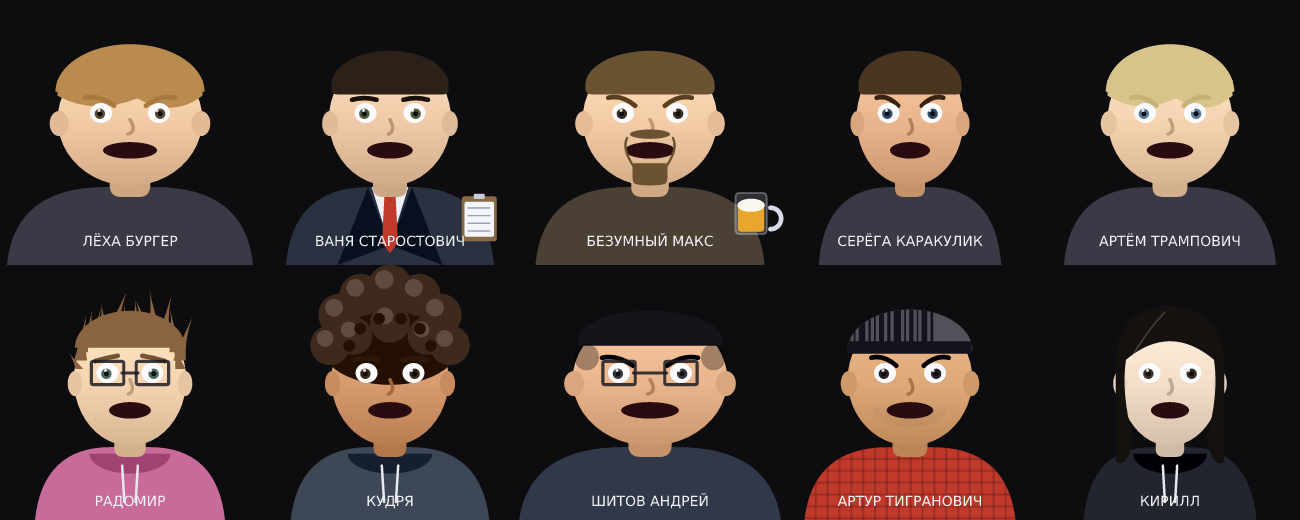
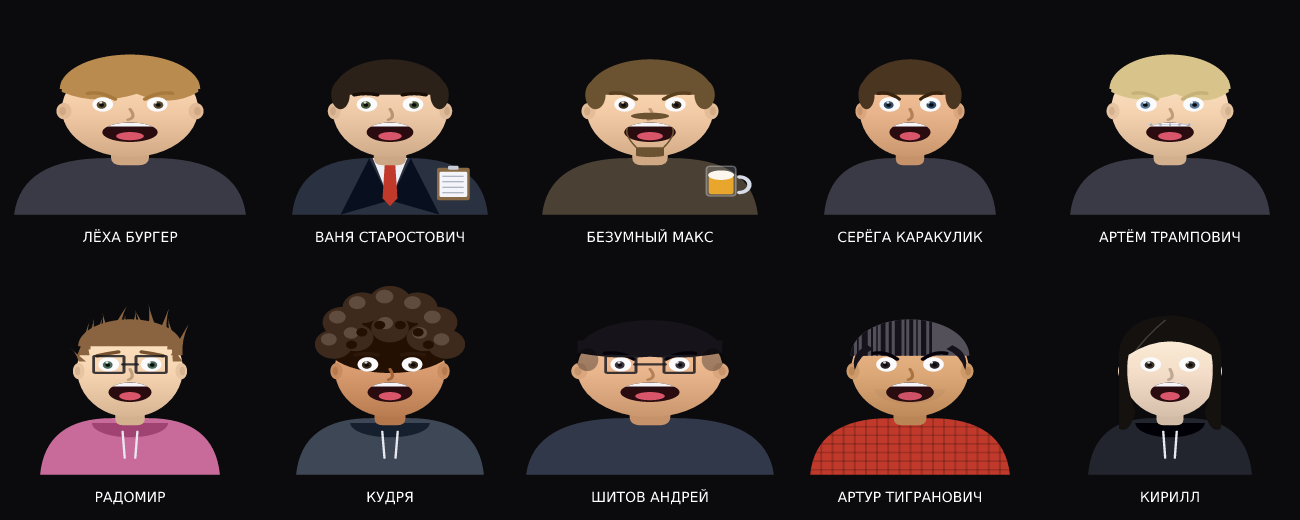
Персонажи: рот, уши, причёски и предметы
- Зубы рисовались шире рта (1.44×) и торчали за губы — теперь всё
  содержимое рта режется по его контуру
- Уши висели отдельными шариками на 0.98 ширины — прижаты к черепу,
  добавлена внутренняя раковина
- Причёски 1, 8, 9 читались как надетые шапки: сплошная полоса у лба
  заменена линией роста волос, купол посажен на череп
- Козья борода Макса перекрывала рот — клок опущен, перемычки тоньше
- Пиво и планшет висели в воздухе за плечом — подтянуты к корпусу

diff --git a/src/core/head.ts b/src/core/head.ts
@@ -79,12 +79,18 @@ export function drawHead(
     ctx.fill();
   }
 
-  // Уши
+  // Уши — прижаты к черепу, иначе выглядят как приклеенные шарики
   ctx.fillStyle = shade(look.skin, -14);
   [-1, 1].forEach((s) => {
     ctx.beginPath();
-    ctx.ellipse(s * w * 0.98, h * 0.06, w * 0.13, h * 0.19, 0, 0, Math.PI * 2);
+    ctx.ellipse(s * w * 0.97, h * 0.04, w * 0.11, h * 0.17, 0, 0, Math.PI * 2);
     ctx.fill();
+    // внутренняя раковина, чтобы ухо читалось
+    ctx.fillStyle = shade(look.skin, -32);
+    ctx.beginPath();
+    ctx.ellipse(s * w * 0.99, h * 0.04, w * 0.05, h * 0.09, 0, 0, Math.PI * 2);
+    ctx.fill();
+    ctx.fillStyle = shade(look.skin, -14);
   });
 
   // Щёки (надутые)
@@ -188,22 +194,29 @@ export function drawHead(
   ctx.ellipse(0, my + mh * 0.2, mw, mh, 0, 0, Math.PI * 2);
   ctx.fill();
   if (mouth > 0.25) {
+    // Всё содержимое рта режем по контуру самого рта, иначе зубы и язык
+    // вылезают за губы и получается «пасть» вместо лица.
+    ctx.save();
+    ctx.beginPath();
+    ctx.ellipse(0, my + mh * 0.2, mw, mh, 0, 0, Math.PI * 2);
+    ctx.clip();
+
     ctx.fillStyle = "#d9556a";
     ctx.beginPath();
     ctx.ellipse(0, my + mh * 0.6, mw * 0.5, mh * 0.42, 0, 0, Math.PI * 2);
     ctx.fill();
-    // зубы
-    const tx = -mw * 0.72, ty = my - mh * 0.86, tw = mw * 1.44, th = mh * 0.3;
+    // зубы — полоска по верхней губе, обрезается клипом
+    const tx = -mw, ty = my - mh * 0.8, tw = mw * 2, th = mh * 0.42;
     ctx.fillStyle = "#f6f6fa";
     ctx.beginPath();
-    ctx.roundRect(tx, ty, tw, th, th * 0.32);
+    ctx.rect(tx, ty, tw, th);
     ctx.fill();
 
     // Брекеты — металлические замочки с дугой
     if (look.braces) {
       ctx.save();
       ctx.beginPath();
-      ctx.roundRect(tx, ty, tw, th, th * 0.32);
+      ctx.rect(tx, ty, tw, th);
       ctx.clip();
       // дуга
       ctx.strokeStyle = "#c8ccd8";
@@ -227,6 +240,7 @@ export function drawHead(
       }
       ctx.restore();
     }
+    ctx.restore(); // снимаем клип рта
   }
 
   // Растительность на лице
@@ -340,7 +354,7 @@ function drawBody(
 
   // Кружка пива в руке
   if (look.prop === "beer") {
-    const bx = w * 1.5, by = h * 1.42;
+    const bx = w * 1.12, by = h * 1.5;
     const bw = r * 0.5, bh = r * 0.66;
     // ручка
     ctx.strokeStyle = "#d8dce8";
@@ -372,7 +386,7 @@ function drawBody(
 
   // Планшет старосты
   if (look.prop === "clipboard") {
-    const bx = w * 1.46, by = h * 1.5;
+    const bx = w * 1.1, by = h * 1.56;
     const bw = r * 0.56, bh = r * 0.72;
     ctx.fillStyle = "#8a6a44";
     ctx.beginPath();
@@ -450,18 +464,18 @@ function drawFacial(
     ctx.ellipse(0, 0, w, h, 0, 0, Math.PI * 2);
     ctx.clip();
     ctx.fillStyle = look.hair;
-    const gw = w * 0.26;
-    const gy = my + mh + r * 0.1;
+    const gw = w * 0.22;
+    const gy = my + mh + r * 0.16;
     ctx.beginPath();
-    ctx.roundRect(-gw, gy, gw * 2, h * 0.34, [w * 0.03, w * 0.03, w * 0.12, w * 0.12]);
+    ctx.roundRect(-gw, gy, gw * 2, h * 0.26, [w * 0.03, w * 0.03, w * 0.1, w * 0.1]);
     ctx.fill();
     // тонкие бакенбарды-перемычки от уголков рта к бородке
-    ctx.lineWidth = Math.max(1.4, r * 0.038);
+    ctx.lineWidth = Math.max(1.2, r * 0.028);
     ctx.strokeStyle = look.hair;
     [-1, 1].forEach((sg) => {
       ctx.beginPath();
-      ctx.moveTo(sg * gw * 0.95, gy + h * 0.04);
-      ctx.quadraticCurveTo(sg * w * 0.42, my, sg * w * 0.34, my - mh - r * 0.04);
+      ctx.moveTo(sg * gw * 0.92, gy + h * 0.02);
+      ctx.quadraticCurveTo(sg * w * 0.4, my + mh * 0.6, sg * w * 0.36, my - mh * 0.2);
       ctx.stroke();
     });
     ctx.restore();
@@ -480,12 +494,15 @@ function drawHair(ctx: CanvasRenderingContext2D, look: FriendLook, w: number, h:
       break;
 
     case 1: // короткие
+      // купол по форме черепа + чуть спущенные виски, без «плиты» сверху
       ctx.beginPath();
-      ctx.ellipse(0, -h * 0.52, w * 0.96, h * 0.52, 0, Math.PI, 0);
+      ctx.ellipse(0, -h * 0.3, w * 1.0, h * 0.74, 0, Math.PI, 0);
       ctx.fill();
-      ctx.beginPath();
-      ctx.roundRect(-w * 0.96, -h * 0.58, w * 1.92, h * 0.2, w * 0.1);
-      ctx.fill();
+      [-1, 1].forEach((sg) => {
+        ctx.beginPath();
+        ctx.ellipse(sg * w * 0.86, -h * 0.3, w * 0.16, h * 0.3, 0, 0, Math.PI * 2);
+        ctx.fill();
+      });
       break;
 
     case 2: // шапка волос
@@ -632,12 +649,12 @@ function drawHair(ctx: CanvasRenderingContext2D, look: FriendLook, w: number, h:
       const light = shade(look.hair, 62);
       ctx.fillStyle = light;
       ctx.beginPath();
-      ctx.ellipse(0, -h * 0.44, w * 1.0, h * 0.62, 0, Math.PI, 0);
+      ctx.ellipse(0, -h * 0.28, w * 1.01, h * 0.76, 0, Math.PI, 0);
       ctx.fill();
 
       ctx.save();
       ctx.beginPath();
-      ctx.ellipse(0, -h * 0.44, w * 1.0, h * 0.62, 0, Math.PI, 0);
+      ctx.ellipse(0, -h * 0.28, w * 1.01, h * 0.76, 0, Math.PI, 0);
       ctx.clip();
       // чёрные штрихи поверх светлой подложки
       ctx.fillStyle = look.hair;
@@ -645,28 +662,39 @@ function drawHair(ctx: CanvasRenderingContext2D, look: FriendLook, w: number, h:
       let x = -w * 1.02;
       for (let i = 0; i < widths.length; i++) {
         const bw = widths[i] * w * 0.075;
-        ctx.fillRect(x, -h * 1.16, bw, h * 0.86);
+        ctx.fillRect(x, -h * 1.16, bw, h * 0.95);
         x += bw + w * 0.052;
         if (x > w) break;
       }
       ctx.restore();
 
-      // ровная плотная чёлка
+      // висок-бакенбарды: пряди спускаются по бокам, лоб остаётся открытым —
+      // без сплошной полосы, которая читалась как козырёк шапки
       ctx.fillStyle = look.hair;
-      ctx.beginPath();
-      ctx.roundRect(-w * 0.99, -h * 0.58, w * 1.98, h * 0.19, w * 0.025);
-      ctx.fill();
+      [-1, 1].forEach((sg) => {
+        ctx.beginPath();
+        ctx.moveTo(sg * w * 0.72, -h * 0.5);
+        ctx.quadraticCurveTo(sg * w * 1.02, -h * 0.34, sg * w * 0.94, h * 0.02);
+        ctx.quadraticCurveTo(sg * w * 0.86, -h * 0.3, sg * w * 0.62, -h * 0.42);
+        ctx.closePath();
+        ctx.fill();
+      });
       break;
     }
 
     case 9: {
       // Очень короткая стрижка почти под машинку: плотно по черепу
       ctx.beginPath();
-      ctx.ellipse(0, -h * 0.6, w * 0.93, h * 0.44, 0, Math.PI, 0);
+      ctx.ellipse(0, -h * 0.34, w * 0.99, h * 0.68, 0, Math.PI, 0);
       ctx.fill();
-      // тонкая кромка у лба
+      // мыс волос на лбу — линия роста, а не ровная полоса-козырёк
       ctx.beginPath();
-      ctx.roundRect(-w * 0.93, -h * 0.64, w * 1.86, h * 0.13, w * 0.04);
+      ctx.moveTo(-w * 0.99, -h * 0.34);
+      ctx.quadraticCurveTo(-w * 0.5, -h * 0.2, 0, -h * 0.26);
+      ctx.quadraticCurveTo(w * 0.5, -h * 0.2, w * 0.99, -h * 0.34);
+      ctx.lineTo(w * 0.99, -h * 0.6);
+      ctx.lineTo(-w * 0.99, -h * 0.6);
+      ctx.closePath();
       ctx.fill();
       // виски темнее
       ctx.save();
@@ -674,7 +702,7 @@ function drawHair(ctx: CanvasRenderingContext2D, look: FriendLook, w: number, h:
       ctx.fillStyle = "#000000";
       [-1, 1].forEach((s) => {
         ctx.beginPath();
-        ctx.ellipse(s * w * 0.82, -h * 0.34, w * 0.16, h * 0.2, 0, 0, Math.PI * 2);
+        ctx.ellipse(s * w * 0.86, -h * 0.2, w * 0.15, h * 0.24, 0, 0, Math.PI * 2);
         ctx.fill();
       });
       ctx.restore();
